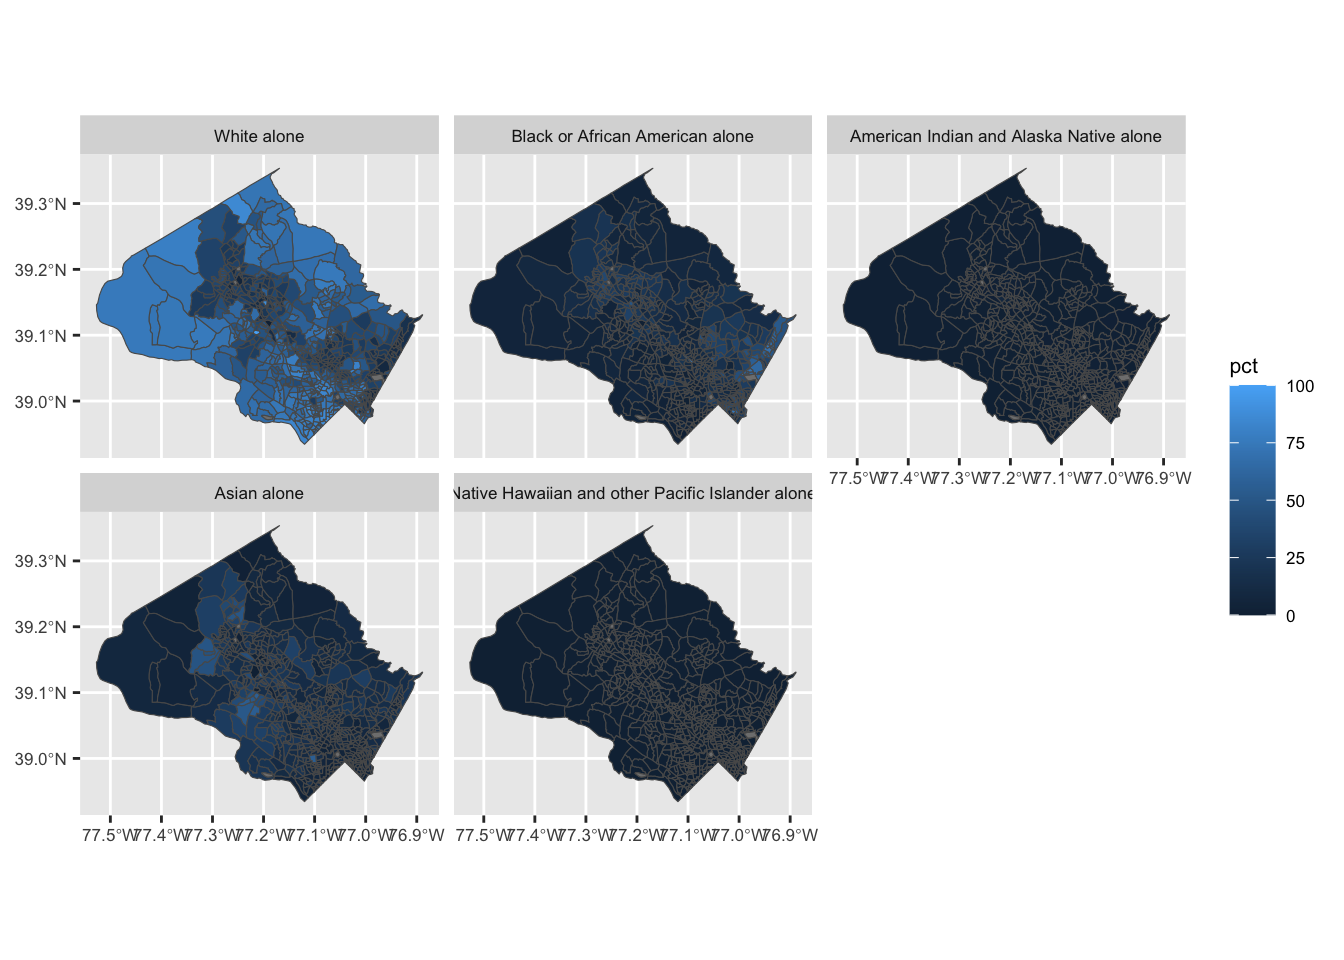
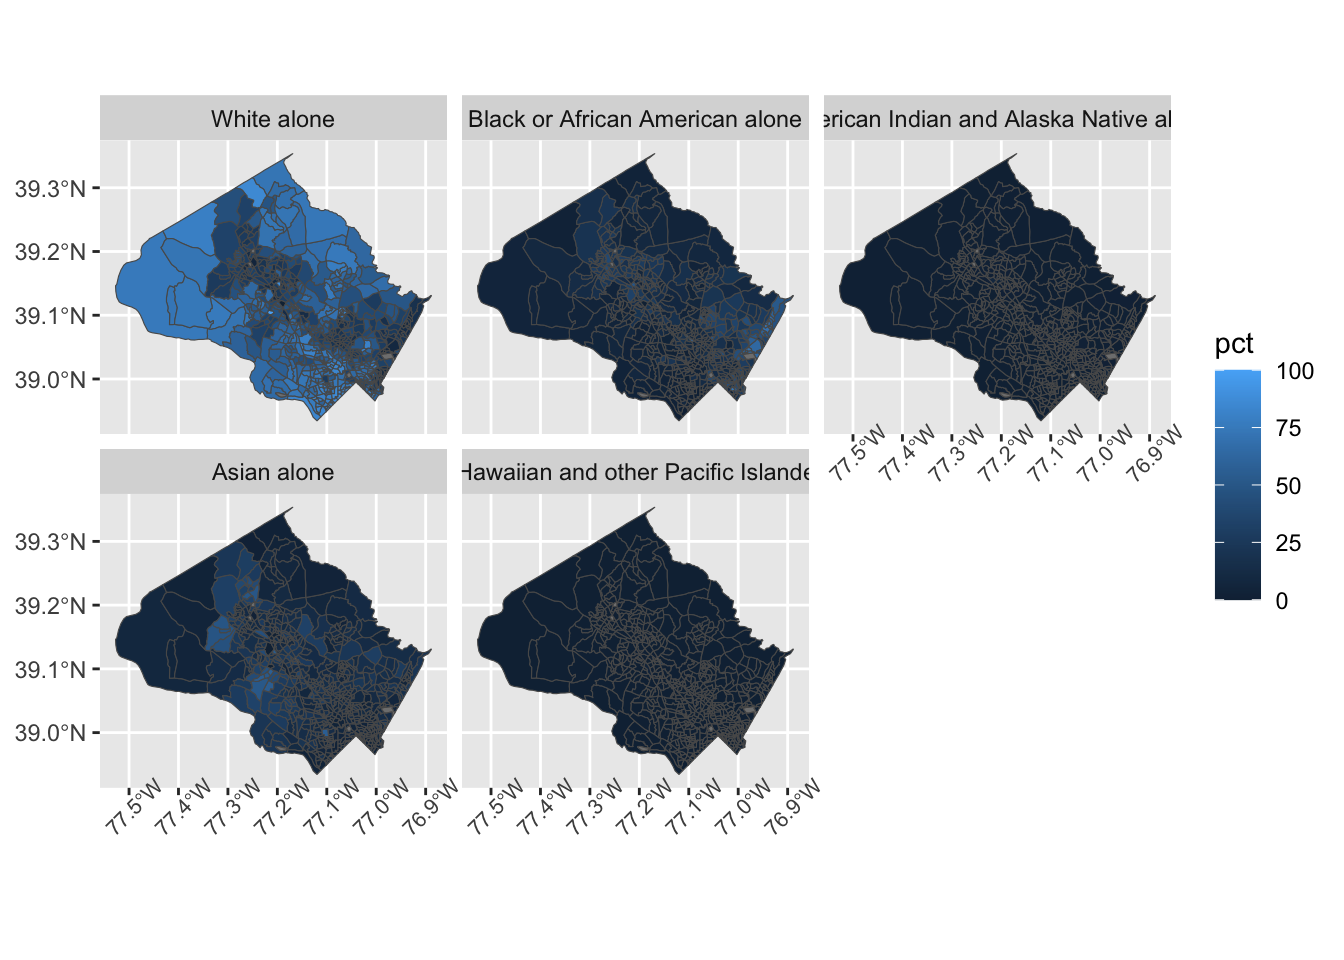
Built site for gh-pages

Changed region(s): [[0.0, 0.0938, 1.0, 0.875]]

diff --git a/analysis.html b/analysis.html
@@ -290,11 +290,15 @@ pre > code.sourceCode > span > a:first-child::before { text-decoration: underlin
   |                                                                            
   |                                                                      |   0%
   |                                                                            
+  |=                                                                     |   1%
+  |                                                                            
   |==                                                                    |   2%
   |                                                                            
-  |==                                                                    |   3%
+  |==                                                                    |   4%
   |                                                                            
   |===                                                                   |   5%
+  |                                                                            
+  |====                                                                  |   6%
   |                                                                            
   |=====                                                                 |   7%
   |                                                                            
@@ -302,91 +306,93 @@ pre > code.sourceCode > span > a:first-child::before { text-decoration: underlin
   |                                                                            
   |======                                                                |   9%
   |                                                                            
-  |=======                                                               |  10%
+  |========                                                              |  12%
   |                                                                            
-  |========                                                              |  11%
-  |                                                                            
-  |==========                                                            |  14%
+  |=========                                                             |  13%
   |                                                                            
   |===========                                                           |  16%
   |                                                                            
-  |============                                                          |  17%
-  |                                                                            
   |=============                                                         |  18%
-  |                                                                            
-  |=============                                                         |  19%
-  |                                                                            
-  |==============                                                        |  20%
   |                                                                            
   |================                                                      |  23%
   |                                                                            
-  |=================                                                     |  24%
-  |                                                                            
   |==================                                                    |  25%
-  |                                                                            
-  |==================                                                    |  26%
-  |                                                                            
-  |====================                                                  |  28%
   |                                                                            
   |=====================                                                 |  30%
   |                                                                            
-  |======================                                                |  32%
+  |=======================                                               |  32%
   |                                                                            
-  |=======================                                               |  33%
-  |                                                                            
-  |========================                                              |  34%
+  |========================                                              |  35%
   |                                                                            
   |=========================                                             |  36%
   |                                                                            
-  |===========================                                           |  39%
+  |===========================                                           |  38%
   |                                                                            
-  |=============================                                         |  41%
+  |============================                                          |  40%
   |                                                                            
   |==============================                                        |  43%
   |                                                                            
-  |===============================                                       |  44%
+  |===============================                                       |  45%
   |                                                                            
-  |=================================                                     |  47%
+  |================================                                      |  46%
   |                                                                            
   |==================================                                    |  48%
   |                                                                            
-  |===================================                                   |  50%
+  |===================================                                   |  49%
   |                                                                            
-  |=====================================                                 |  52%
+  |===================================                                   |  51%
   |                                                                            
-  |======================================                                |  55%
+  |====================================                                  |  52%
   |                                                                            
-  |=======================================                               |  56%
+  |======================================                                |  54%
   |                                                                            
-  |=========================================                             |  58%
+  |=======================================                               |  55%
   |                                                                            
-  |===========================================                           |  62%
+  |========================================                              |  57%
+  |                                                                            
+  |==========================================                            |  60%
+  |                                                                            
+  |===========================================                           |  61%
   |                                                                            
   |============================================                          |  63%
   |                                                                            
-  |=============================================                         |  64%
-  |                                                                            
-  |=============================================                         |  65%
-  |                                                                            
   |==============================================                        |  66%
+  |                                                                            
+  |===============================================                       |  68%
+  |                                                                            
+  |=================================================                     |  70%
+  |                                                                            
+  |==================================================                    |  71%
+  |                                                                            
+  |===================================================                   |  72%
+  |                                                                            
+  |===================================================                   |  74%
+  |                                                                            
+  |=====================================================                 |  76%
   |                                                                            
   |======================================================                |  77%
   |                                                                            
-  |=======================================================               |  79%
+  |=======================================================               |  78%
   |                                                                            
-  |=========================================================             |  81%
+  |========================================================              |  80%
   |                                                                            
   |==========================================================            |  83%
   |                                                                            
+  |============================================================          |  85%
+  |                                                                            
   |============================================================          |  86%
   |                                                                            
-  |=============================================================         |  88%
+  |==============================================================        |  88%
   |                                                                            
-  |==============================================================        |  89%
+  |===============================================================       |  90%
   |                                                                            
-  |================================================================      |  91%
+  |================================================================      |  92%
   |                                                                            
-  |=================================================================     |  92%
+  |==================================================================    |  94%
+  |                                                                            
+  |====================================================================  |  97%
+  |                                                                            
+  |===================================================================== |  99%
   |                                                                            
   |======================================================================| 100%</code></pre>
 </div>
@@ -409,7 +415,7 @@ pre > code.sourceCode > span > a:first-child::before { text-decoration: underlin
 <span id="cb5-17"><a href="#cb5-17" aria-hidden="true" tabindex="-1"></a>               <span class="st">'P1_006N'</span> <span class="ot">=</span> <span class="st">"Asian alone"</span>, </span>
 <span id="cb5-18"><a href="#cb5-18" aria-hidden="true" tabindex="-1"></a>               <span class="st">'P1_007N'</span> <span class="ot">=</span> <span class="st">"Native Hawaiian and other Pacific Islander alone"</span>)</span>
 <span id="cb5-19"><a href="#cb5-19" aria-hidden="true" tabindex="-1"></a></span>
-<span id="cb5-20"><a href="#cb5-20" aria-hidden="true" tabindex="-1"></a><span class="fu">ggplot</span>() <span class="sc">+</span> <span class="fu">geom_sf</span>(<span class="at">data =</span> md, <span class="fu">aes</span>(<span class="at">fill =</span> pct)) <span class="sc">+</span> <span class="fu">facet_wrap</span>(<span class="sc">~</span>variable, <span class="at">labeller =</span> <span class="fu">as_labeller</span>(race_list)) <span class="sc">+</span> <span class="fu">theme</span>(<span class="at">text =</span> <span class="fu">element_text</span>(<span class="at">size =</span> <span class="dv">8</span>))</span></code><button title="Copy to Clipboard" class="code-copy-button"><i class="bi"></i></button></pre></div>
+<span id="cb5-20"><a href="#cb5-20" aria-hidden="true" tabindex="-1"></a><span class="fu">ggplot</span>() <span class="sc">+</span> <span class="fu">geom_sf</span>(<span class="at">data =</span> md, <span class="fu">aes</span>(<span class="at">fill =</span> pct)) <span class="sc">+</span> <span class="fu">facet_wrap</span>(<span class="sc">~</span>variable, <span class="at">labeller =</span> <span class="fu">as_labeller</span>(race_list)) <span class="sc">+</span> <span class="fu">theme</span>(<span class="at">axis.text.x =</span> <span class="fu">element_text</span>(<span class="at">size =</span> <span class="dv">8</span>, <span class="at">angle =</span> <span class="dv">45</span>))</span></code><button title="Copy to Clipboard" class="code-copy-button"><i class="bi"></i></button></pre></div>
 <div class="cell-output-display">
 <p><img src="analysis_files/figure-html/unnamed-chunk-3-1.png" class="img-fluid" width="672"></p>
 </div>
@@ -418,7 +424,7 @@ pre > code.sourceCode > span > a:first-child::before { text-decoration: underlin
 <div class="cell">
 <div class="sourceCode cell-code" id="cb6"><pre class="sourceCode r code-with-copy"><code class="sourceCode r"><span id="cb6-1"><a href="#cb6-1" aria-hidden="true" tabindex="-1"></a><span class="fu">ggplot</span>() <span class="sc">+</span> <span class="fu">geom_sf</span>(<span class="at">data =</span> md, <span class="fu">aes</span>(<span class="at">fill =</span> pct)) <span class="sc">+</span> </span>
 <span id="cb6-2"><a href="#cb6-2" aria-hidden="true" tabindex="-1"></a>  <span class="fu">geom_sf</span>(<span class="at">data =</span> simplified_geo, <span class="fu">aes</span>(<span class="at">color =</span> type), <span class="at">alpha =</span> <span class="fl">0.1</span>, <span class="at">size =</span> <span class="fl">0.1</span>) <span class="sc">+</span> </span>
-<span id="cb6-3"><a href="#cb6-3" aria-hidden="true" tabindex="-1"></a>  <span class="fu">facet_wrap</span>(<span class="sc">~</span>type) <span class="sc">+</span> <span class="fu">theme</span>(<span class="at">text =</span> <span class="fu">element_text</span>(<span class="at">size =</span> <span class="dv">8</span>, <span class="at">angle =</span> <span class="dv">45</span>), <span class="at">legend.position =</span> <span class="st">"none"</span>)</span></code><button title="Copy to Clipboard" class="code-copy-button"><i class="bi"></i></button></pre></div>
+<span id="cb6-3"><a href="#cb6-3" aria-hidden="true" tabindex="-1"></a>  <span class="fu">facet_wrap</span>(<span class="sc">~</span>type) <span class="sc">+</span> <span class="fu">theme</span>(<span class="at">text =</span> <span class="fu">element_text</span>(<span class="at">size =</span> <span class="dv">8</span>), <span class="at">legend.position =</span> <span class="st">"none"</span>)</span></code><button title="Copy to Clipboard" class="code-copy-button"><i class="bi"></i></button></pre></div>
 <div class="cell-output-display">
 <p><img src="analysis_files/figure-html/unnamed-chunk-4-1.png" class="img-fluid" width="672"></p>
 </div>
